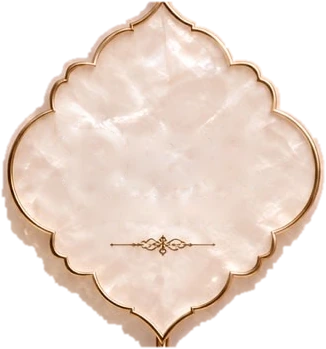
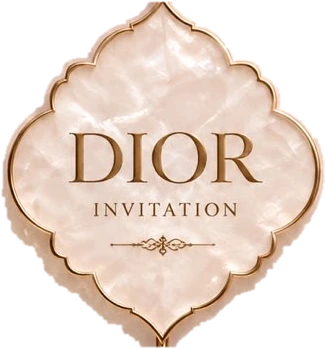
Pearl Lotus: original medallion lettering, demo page, design picker
- Medallion keeps its original lettering exactly as supplied (owner has
  permission); the text overlay is removed.
- "Try it yourself" demo (/demo) now opens Pearl Lotus (Pearl Lace remains at
  /demo?theme=pearl-lace).
- Customer dashboard > design: new design picker to switch the invitation to
  another active design priced at or below the one bought; content, guests,
  links and RSVPs are kept (audited as invitation.theme_changed).

Claude-Session: https://claude.ai/code/session_015zS94yBeWhGXKckDvFWUsm

Changed region(s): [[0.2147, 0.3725, 0.7975, 0.5444], [0.2761, 0.5731, 0.7362, 0.6304], [0.5215, 0.5158, 0.5828, 0.5444]]

diff --git a/components/dashboard/ThemePicker.tsx b/components/dashboard/ThemePicker.tsx
@@ -1,0 +1,55 @@
+"use client";
+
+import { useRouter } from "next/navigation";
+import { useState, useTransition } from "react";
+import { changeThemeAction } from "@/app/dashboard/actions";
+
+export type PickerTheme = { slug: string; nameAr: string; thumb: string };
+
+/** Customer design page: choose which invitation design (product) the invitation uses. */
+export default function ThemePicker({ themes, current }: { themes: PickerTheme[]; current: string }) {
+  const router = useRouter();
+  const [pending, start] = useTransition();
+  const [busy, setBusy] = useState<string | null>(null);
+  const [msg, setMsg] = useState<{ ok: boolean; text: string } | null>(null);
+
+  if (themes.length < 2) return null;
+  return (
+    <section className="card mb-6 p-5" aria-labelledby="design-pick">
+      <h2 id="design-pick" className="text-lg font-semibold">التصميم</h2>
+      <p className="mt-1 text-sm text-ink-soft">اختر تصميم الدعوة. تبقى نصوصك وضيوفك وروابطهم وردودهم كما هي.</p>
+      <div className="mt-4 grid grid-cols-2 gap-4 sm:grid-cols-3">
+        {themes.map((t) => {
+          const active = t.slug === current;
+          return (
+            <button
+              key={t.slug}
+              type="button"
+              disabled={pending || active}
+              aria-pressed={active}
+              onClick={() => {
+                setBusy(t.slug);
+                setMsg(null);
+                start(async () => {
+                  const r = await changeThemeAction(t.slug);
+                  setMsg({ ok: r.ok, text: r.message || "" });
+                  setBusy(null);
+                  if (r.ok) router.refresh();
+                });
+              }}
+              className={`overflow-hidden rounded-2xl border text-right transition ${active ? "border-burgundy ring-2 ring-burgundy/30" : "border-[var(--hairline)] hover:border-burgundy/50"}`}
+            >
+              <img src={t.thumb} alt="" className="aspect-[3/4] w-full object-cover" loading="lazy" />
+              <span className="block px-3 py-2 text-sm font-semibold">
+                {t.nameAr}
+                {active ? <span className="mr-2 text-xs font-normal text-burgundy">(الحالي)</span> : null}
+                {busy === t.slug ? <span className="mr-2 text-xs font-normal text-ink-soft">جارٍ التغيير…</span> : null}
+              </span>
+            </button>
+          );
+        })}
+      </div>
+      {msg ? <p className={`mt-3 text-sm ${msg.ok ? "text-success" : "text-danger"}`} aria-live="polite">{msg.text}</p> : null}
+    </section>
+  );
+}

diff --git a/components/invitation/pearl-lotus/PearlLotusInvitation.tsx b/components/invitation/pearl-lotus/PearlLotusInvitation.tsx
@@ -50,15 +50,11 @@ function usePrefersReducedMotion() {
   return r;
 }
 
-/** The medallion with the couple's initials; rendered in the spinner and (static) in each door. */
-function Medal({ base, initials, label, fill }: { base: string; initials: string; label: string; fill?: boolean }) {
+/** The medallion artwork; rendered in the spinner and (static) in each door. */
+function Medal({ base, fill }: { base: string; fill?: boolean }) {
   return (
     <div className={`lt-medal${fill ? " lt-medal-fill" : ""}`}>
       <img src={`${base}/medallion.webp`} alt="" draggable={false} />
-      <div className="lt-medal-text">
-        {initials ? <span className="lt-medal-initials">{initials}</span> : null}
-        <span className="lt-medal-label">{label}</span>
-      </div>
     </div>
   );
 }
@@ -88,7 +84,6 @@ export default function PearlLotusInvitation({ vm, showcase = false, onOpenStart
   const [music, setMusic] = useState(false);
 
   const couple = !(c.eventType === "party" || c.eventType === "other") || !c.eventTitle;
-  const initials = (c.initials || "").trim();
   const date = useMemo(() => formatEventDate(c.eventDate), [c.eventDate]);
   const time = formatEventTime(c.eventTime);
   const start = useMemo(() => eventStartUtc(c.eventDate, c.eventTime), [c.eventDate, c.eventTime]);
@@ -261,7 +256,6 @@ export default function PearlLotusInvitation({ vm, showcase = false, onOpenStart
     "--mh": pct(M.medallion.height),
     "--cover-ar": String(M.cover.w / M.cover.h),
   } as CSSProperties;
-  const medalLabel = "دعوة";
   const page = (n: 1 | 2 | 3) => {
     const s = M[`page${n}` as const];
     return <img className="lt-art" src={`${base}/page${n}.webp`} width={s.w} height={s.h} alt="" draggable={false} decoding="async" />;
@@ -419,13 +413,13 @@ export default function PearlLotusInvitation({ vm, showcase = false, onOpenStart
               <div key={side} ref={side === "l" ? doorL : doorR} className={`lt-door lt-door-${side}`}>
                 <div className="lt-door-art">
                   <img src={`${base}/cover-base.webp`} alt="" draggable={false} />
-                  <Medal base={base} initials={initials} label={medalLabel} />
+                  <Medal base={base} />
                 </div>
                 <div className="lt-door-shadow" />
               </div>
             ))}
             <div ref={spinRef} className="lt-spin">
-              <Medal base={base} initials={initials} label={medalLabel} fill />
+              <Medal base={base} fill />
               <div
                 ref={sheenRef}
                 className="lt-sheen"

diff --git a/lib/services/workspace.ts b/lib/services/workspace.ts
@@ -176,6 +176,41 @@ export async function saveInvitation(
   });
 }
 
+/**
+ * Customer switches their invitation to another active design (its current published version, default
+ * colour). Only designs priced at or below the design they bought; content, guests, links and RSVPs stay.
+ */
+export async function changeInvitationTheme(db: Db, workspaceId: string, themeSlug: string): Promise<void> {
+  await db.tx(async (q) => {
+    const ws = await getWorkspace(q, workspaceId);
+    if (!ws) throw new UserError("مساحة الدعوة غير موجودة", "not_found");
+    if (ws.workspaceStatus !== "active") throw new UserError("تم إيقاف هذه الدعوة مؤقتاً");
+    const cur = await q.query<{ price_minor: number }>(
+      `select t.price_minor from theme_versions tv join themes t on t.id = tv.theme_id where tv.id = $1`,
+      [ws.themeVersionId],
+    );
+    const next = await q.query<{ version_id: string; price_minor: number; variant_key: string | null }>(
+      `select v.id as version_id, t.price_minor,
+              (select key from theme_color_variants cv where cv.theme_version_id = v.id and cv.status = 'active'
+                order by cv.is_default desc, cv.sort_order limit 1) as variant_key
+         from themes t
+         join lateral (select * from theme_versions tv where tv.theme_id = t.id and tv.status = 'published'
+                        order by tv.version desc limit 1) v on true
+        where t.slug = $1 and t.status = 'active'`,
+      [themeSlug],
+    );
+    const n = next.rows[0];
+    if (!n || !n.variant_key) throw new UserError("هذا التصميم غير متاح حالياً");
+    if (num(n.price_minor) > num(cur.rows[0]?.price_minor ?? 0)) throw new UserError("هذا التصميم يتطلب ترقية الباقة، تواصل معنا");
+    if (n.version_id === ws.themeVersionId) return;
+    await q.query(
+      `update invitations set theme_version_id = $2, color_variant_key = $3, updated_at = now() where workspace_id = $1`,
+      [workspaceId, n.version_id, n.variant_key],
+    );
+    await audit(q, { actorType: "customer", actorId: workspaceId, action: "invitation.theme_changed", targetType: "invitation", targetId: ws.invitationId, details: { theme: themeSlug } });
+  });
+}
+
 export async function setRecoveryPhone(q: Queryable, workspaceId: string, phone: string) {
   const p = phone.trim().slice(0, 30);
   if (p && !/^\+?[0-9\s-]{7,20}$/.test(p)) throw new UserError("رقم الهاتف غير صحيح");

diff --git a/app/dashboard/design/page.tsx b/app/dashboard/design/page.tsx
@@ -1,14 +1,24 @@
 import { requireCustomer } from "@/lib/auth";
-import { variantsForVersion } from "@/lib/services/catalog";
+import { variantsForVersion, listThemes } from "@/lib/services/catalog";
+import { themeThumb } from "@/lib/themes";
+import ThemePicker from "@/components/dashboard/ThemePicker";
 import { getSettings } from "@/lib/services/settings";
 import InvitationEditor from "@/components/dashboard/InvitationEditor";
 import { PhotoManager, MusicManager } from "@/components/dashboard/MediaManagers";
 
 export default async function DesignPage() {
   const { db, ws } = await requireCustomer();
-  const [variants, settings] = await Promise.all([variantsForVersion(db, ws.themeVersionId), getSettings(db)]);
+  const [variants, settings, themes] = await Promise.all([variantsForVersion(db, ws.themeVersionId), getSettings(db), listThemes(db)]);
+  // designs the customer may switch to: active, priced at or below the design they bought
+  const curPrice = themes.find((t) => t.slug === ws.themeSlug)?.priceMinor ?? Infinity;
+  const pick = themes
+    .filter((t) => t.priceMinor <= curPrice || t.slug === ws.themeSlug)
+    .map((t) => ({ slug: t.slug, nameAr: t.nameAr, thumb: themeThumb(t.renderer, t.variants.find((v) => v.isDefault)?.key ?? t.variants[0]?.key ?? "white") }));
   return (
+    <>
+    <ThemePicker themes={pick} current={ws.themeSlug} />
     <InvitationEditor
+      key={ws.themeVersionId}
       section="design"
       renderer={ws.renderer}
       variants={variants.filter((v) => v.status === "active").map((v) => ({ key: v.key, nameAr: v.nameAr, swatch: v.swatch }))}
@@ -18,5 +28,6 @@ export default async function DesignPage() {
       <PhotoManager photos={ws.content.photos || []} maxPhotos={settings.maxPhotos} maxMb={settings.maxUploadMb} />
       {settings.allowMusic ? <MusicManager musicUrl={ws.content.musicUrl || ""} /> : null}
     </InvitationEditor>
+    </>
   );
 }

diff --git a/app/dashboard/actions.ts b/app/dashboard/actions.ts
@@ -3,7 +3,7 @@ import { revalidatePath } from "next/cache";
 import { redirect } from "next/navigation";
 import sharp, { type OutputInfo } from "sharp";
 import { requireCustomer } from "@/lib/auth";
-import { saveInvitation, setRecoveryPhone, photoCount } from "@/lib/services/workspace";
+import { saveInvitation, setRecoveryPhone, photoCount, changeInvitationTheme } from "@/lib/services/workspace";
 import { addGuests, updateGuest, deleteGuest, reissueGuestLink, revokeGuestLink } from "@/lib/services/guests";
 import { issueCustomerToken } from "@/lib/services/orders";
 import { getSettings } from "@/lib/services/settings";
@@ -20,6 +20,17 @@ export async function saveInvitationAction(payload: { content: unknown; pages: u
     const r = await saveInvitation(db, ws.workspaceId, payload);
     revalidatePath("/dashboard", "layout");
     return { ok: true, message: "تم حفظ التغييرات", data: { updatedAt: r.updatedAt } };
+  } catch (e) {
+    return { ok: false, message: userMessage(e) };
+  }
+}
+
+export async function changeThemeAction(themeSlug: string): Promise<ActionResult> {
+  const { db, ws } = await requireCustomer();
+  try {
+    await changeInvitationTheme(db, ws.workspaceId, String(themeSlug || "").slice(0, 60));
+    revalidatePath("/dashboard", "layout");
+    return { ok: true, message: "تم تغيير التصميم" };
   } catch (e) {
     return { ok: false, message: userMessage(e) };
   }

diff --git a/components/invitation/pearl-lotus/pearl-lotus.css b/components/invitation/pearl-lotus/pearl-lotus.css
@@ -247,36 +247,6 @@
 .lt-door .lt-medal { visibility: hidden; } /* shown once the spinning medallion settles */
 .lt-medal-fill { left: 0; top: 0; width: 100%; height: 100%; }
 .lt-medal > img { position: absolute; inset: 0; width: 100%; height: 100%; display: block; }
-.lt-medal-text {
-  position: absolute;
-  left: 16%;
-  right: 16%;
-  top: 34%;
-  height: 29%;
-  display: flex;
-  flex-direction: column;
-  align-items: center;
-  justify-content: center;
-  gap: 0.8cqi;
-  text-align: center;
-}
-.lt-medal-initials {
-  font-family: "Aref Ruqaa", "Amiri", serif;
-  font-size: 8.6cqi;
-  line-height: 1.1;
-  color: #8f6a3a;
-  background: linear-gradient(180deg, #b68c52 0%, #7f5a2c 75%, #a47a44 100%);
-  -webkit-background-clip: text;
-  background-clip: text;
-  -webkit-text-fill-color: transparent;
-}
-.lt-medal-label {
-  font-family: "Amiri", serif;
-  font-size: 3cqi;
-  letter-spacing: 0.14em;
-  color: #8b6a45;
-}
-
 .lt-spin {
   position: absolute;
   left: var(--mx);

diff --git a/app/demo/page.tsx b/app/demo/page.tsx
@@ -6,10 +6,11 @@ export const metadata = { title: "عرض تجريبي للدعوة", robots: { i
 
 const VARIANTS: ColorVariantKey[] = ["ivory", "white", "champagne"];
 
-export default async function DemoPage({ searchParams }: { searchParams: Promise<{ color?: string }> }) {
+export default async function DemoPage({ searchParams }: { searchParams: Promise<{ color?: string; theme?: string }> }) {
   const sp = await searchParams;
   const variant = VARIANTS.includes(sp.color as ColorVariantKey) ? (sp.color as ColorVariantKey) : "white";
-  const vm = sampleViewModel(variant);
+  // default demo: Pearl Lotus; the Pearl Lace demo stays available at /demo?theme=pearl-lace
+  const vm = sp.theme === "pearl-lace" ? sampleViewModel(variant) : { ...sampleViewModel("blush"), renderer: "pearl-lotus@1" };
   return (
     <main className="inv-shell">
       <div className="inv-shell__stage">

diff --git a/scripts/build_lotus_assets.py b/scripts/build_lotus_assets.py
@@ -15,8 +15,7 @@ The artwork is not redrawn: only cut into layers and compressed.
           thumb.webp       catalogue thumbnail
           + manifest.json  geometry (seam, medallion box, page sizes) used by the renderer
 
-The supplied cover carried a third-party brand name inside the medallion; that lettering is
-removed here (the renderer writes the couple's initials and "دعوة" there as live text).
+The medallion keeps its original lettering exactly as supplied (used with the owner's permission).
 Requires: Python 3, opencv-python-headless, NumPy, Pillow.
 """
 from __future__ import annotations
@@ -36,7 +35,6 @@ OUT = ROOT / "public" / "assets" / "themes" / "pearl-lotus" / "v1"
 SEAM_X = 356.5  # centre of the vertical gold line (cover px)
 BOX = (186, 452, 530, 828)  # search window around the medallion
 TIPS = (464, 807)  # medallion top / bottom tip rows (the seam line continues beyond them)
-TEXT = (588, 686, 258, 458)  # rows / cols of the lettering inside the medallion (flourish below is kept)
 
 
 def gold_mask(img: np.ndarray) -> np.ndarray:
@@ -68,18 +66,6 @@ def medallion_mask(img: np.ndarray) -> np.ndarray:
     full = np.zeros(img.shape[:2], np.uint8)
     full[y0:y1, x0:x1] = m
     return full
-
-
-def remove_lettering(img: np.ndarray, medal: np.ndarray) -> np.ndarray:
-    inner = cv2.erode(medal, np.ones((29, 29), np.uint8))
-    lum = cv2.cvtColor(img, cv2.COLOR_BGR2GRAY)
-    dark = (lum.astype(int) < cv2.GaussianBlur(lum, (41, 41), 0).astype(int) - 18).astype(np.uint8)
-    t = inner & (gold_mask(img) | dark)
-    r0, r1, c0, c1 = TEXT
-    keep = np.zeros_like(t)
-    keep[r0:r1, c0:c1] = 1
-    t = cv2.dilate(t & keep, np.ones((9, 9), np.uint8))
-    return cv2.inpaint(img, t * 255, 7, cv2.INPAINT_TELEA)
 
 
 def lift_medallion(img: np.ndarray, medal: np.ndarray, pearl: np.ndarray) -> np.ndarray:
@@ -118,7 +104,7 @@ def main() -> None:
     cover = cv2.imread(str(SRC / "cover.jpg"))
     H, W = cover.shape[:2]
     medal = medallion_mask(cover)
-    clean = remove_lettering(cover, medal)
+    clean = cover
     page1 = cv2.imread(str(SRC / "page1.jpg"))
     base = lift_medallion(clean, medal, page1)
 
